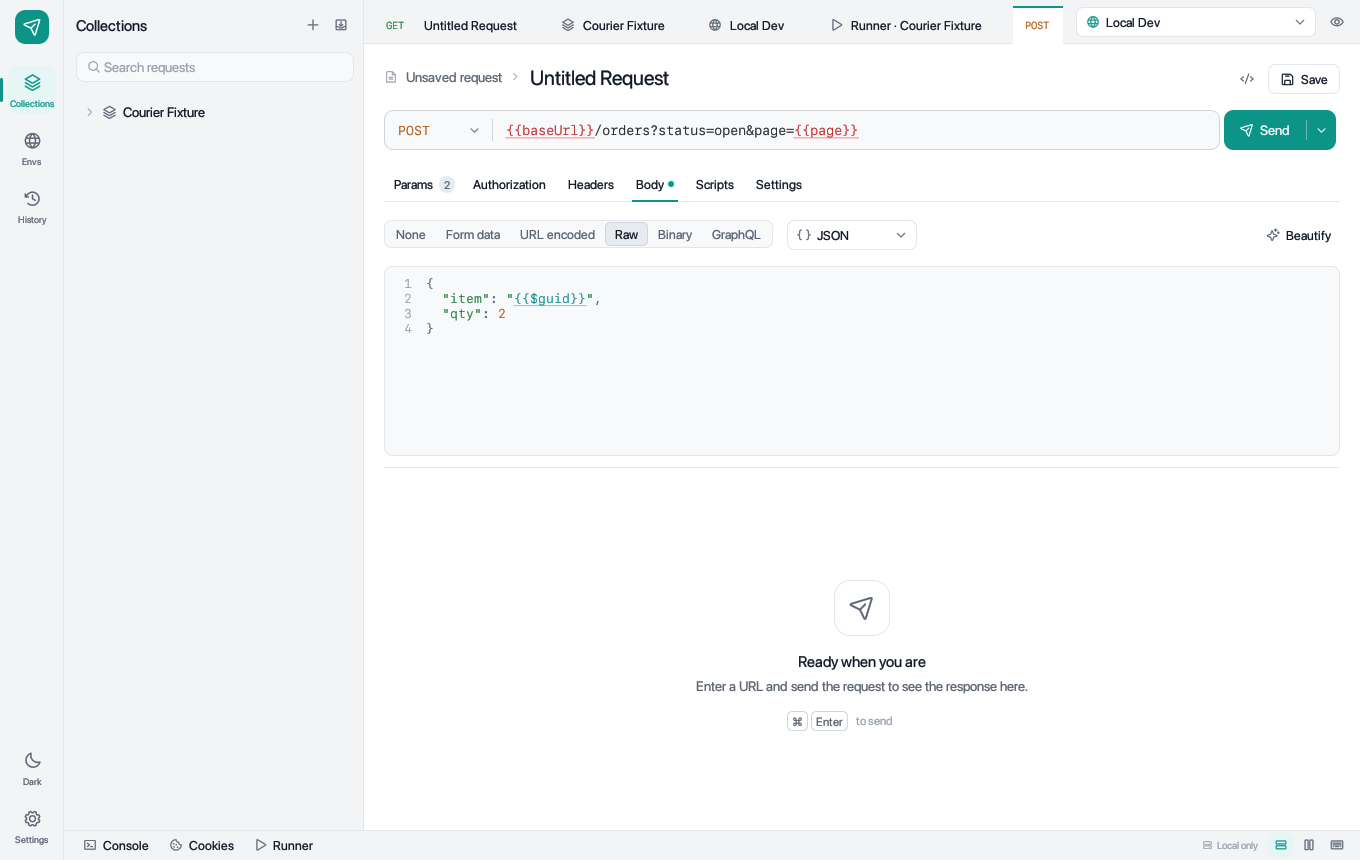
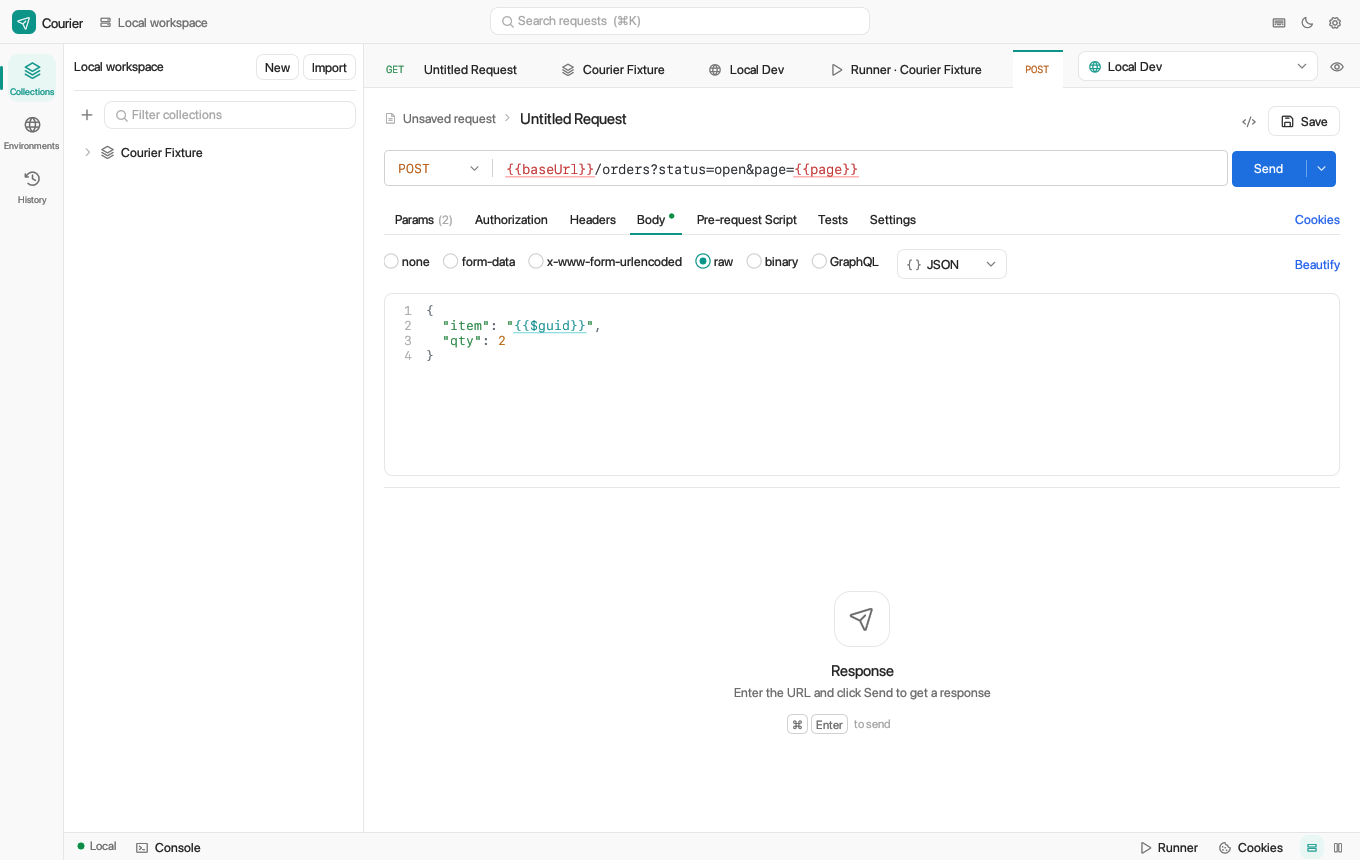
Release 0.2.0: new screenshots, quick-start PDF, runner card fit

diff --git a/src/app/runner_tab.rs b/src/app/runner_tab.rs
@@ -141,7 +141,7 @@ pub fn show(app: &mut CourierApp, ui: &mut Ui, tab_id: u64, tab: &mut RunnerTab)
             ui.add_enabled_ui(!running, |ui| config_panel(app, ui, tab_id, tab));
         });
     egui::CentralPanel::default()
-        .frame(egui::Frame::new().fill(p.canvas).inner_margin(egui::Margin { left: 16, right: 0, top: 0, bottom: 0 }))
+        .frame(egui::Frame::new().fill(p.canvas).inner_margin(egui::Margin { left: 16, right: 4, top: 0, bottom: 0 }))
         .show_inside(ui, |ui| results_panel(app, ui, tab_id, tab));
 }
 
@@ -452,7 +452,9 @@ fn results_panel(app: &mut CourierApp, ui: &mut Ui, tab_id: u64, tab: &mut Runne
     ui.add_space(12.0);
     let t = tab.result.totals.clone();
     ui.horizontal(|ui| {
-        let w = ((ui.available_width() - 4.0 * 8.0) / 5.0 - 28.0).max(60.0);
+        // Card content width: share minus spacing, inner margins and stroke.
+        let gap = ui.spacing().item_spacing.x;
+        let w = ((ui.available_width() - 4.0 * gap) / 5.0 - 30.0).max(60.0);
         ui.data_mut(|d| d.insert_temp(egui::Id::new("stat_w"), w));
         stat(ui, "Iterations", tab.result.iterations.len().to_string(), p.text);
         stat(ui, "Requests", t.requests.to_string(), p.text);

diff --git a/scripts/make-quick-start-pdf.py b/scripts/make-quick-start-pdf.py
@@ -113,7 +113,7 @@ c.setFillColor(HexColor("#aeb6c2"))
 c.setFont("Body", 9.5)
 c.drawString(M + 74, H - 86, "A fast, local-first API client. No account, no cloud — your requests stay on your machine.")
 # Version pill.
-pill = "v0.1.0   ·   macOS   ·   Windows   ·   Linux"
+pill = "v0.2.0   ·   macOS   ·   Windows   ·   Linux"
 c.setFont("Body-Bold", 8)
 pw = c.stringWidth(pill, "Body-Bold", 8) + 22
 c.setFillColor(INK2)
@@ -127,7 +127,7 @@ top = H - HEADER_H - 18
 shot_w = 268
 shot_h = shot_w * 860 / 1360
 shot_x = W - M - shot_w
-shot = ImageReader(f"{ROOT}/docs/screenshots/request-dark.png")
+shot = ImageReader(f"{ROOT}/docs/screenshots/request-light.png")
 # Shadow + frame.
 c.setFillColor(HexColor("#d9dde3"))
 c.roundRect(shot_x + 2, top - shot_h - 3, shot_w, shot_h, 6, stroke=0, fill=1)

diff --git a/README.md b/README.md
@@ -2,11 +2,13 @@
 
 A local-first desktop API client for **macOS**, **Linux** (Ubuntu and other distributions) and **Windows**, written in Rust with egui, reqwest and tokio. There are no accounts and no cloud; everything is stored as JSON on your machine. See [SPEC.md](SPEC.md) for the full specification.
 
-![Courier request builder](docs/screenshots/request-dark.png)
+The layout will feel familiar if you have used Postman: collections on the left, request tabs across the top, and Params, Authorization, Headers, Body, Pre-request Script, Tests and Settings above the response. Courier starts in a light theme, and dark mode is one click away (the moon icon at the top right).
 
-| Light theme | Collection runner |
-|---|---|
-| ![Body editor in the light theme](docs/screenshots/body-light.png) | ![Collection runner results](docs/screenshots/runner.png) |
+![Courier request builder](docs/screenshots/request-light.png)
+
+| Body editor | Collection runner | Dark mode |
+|---|---|---|
+| ![Body editor with raw JSON](docs/screenshots/body-light.png) | ![Collection runner results](docs/screenshots/runner.png) | ![Authorization and console in dark mode](docs/screenshots/dark.png) |
 
 ## Install
 
@@ -177,7 +179,7 @@ On Linux, install the build dependencies first, either with `./scripts/install-l
 - **Releases:** pushing a version tag runs [Release](.github/workflows/release.yml). It builds the `.deb`, both macOS DMGs and the Windows `.exe`, and publishes them as a GitHub release:
 
 ```bash
-git tag v0.1.0 && git push origin v0.1.0
+git tag v0.2.0 && git push origin v0.2.0
 ```
 
 The macOS builds are signed ad hoc. Notarized builds need an Apple Developer ID.
